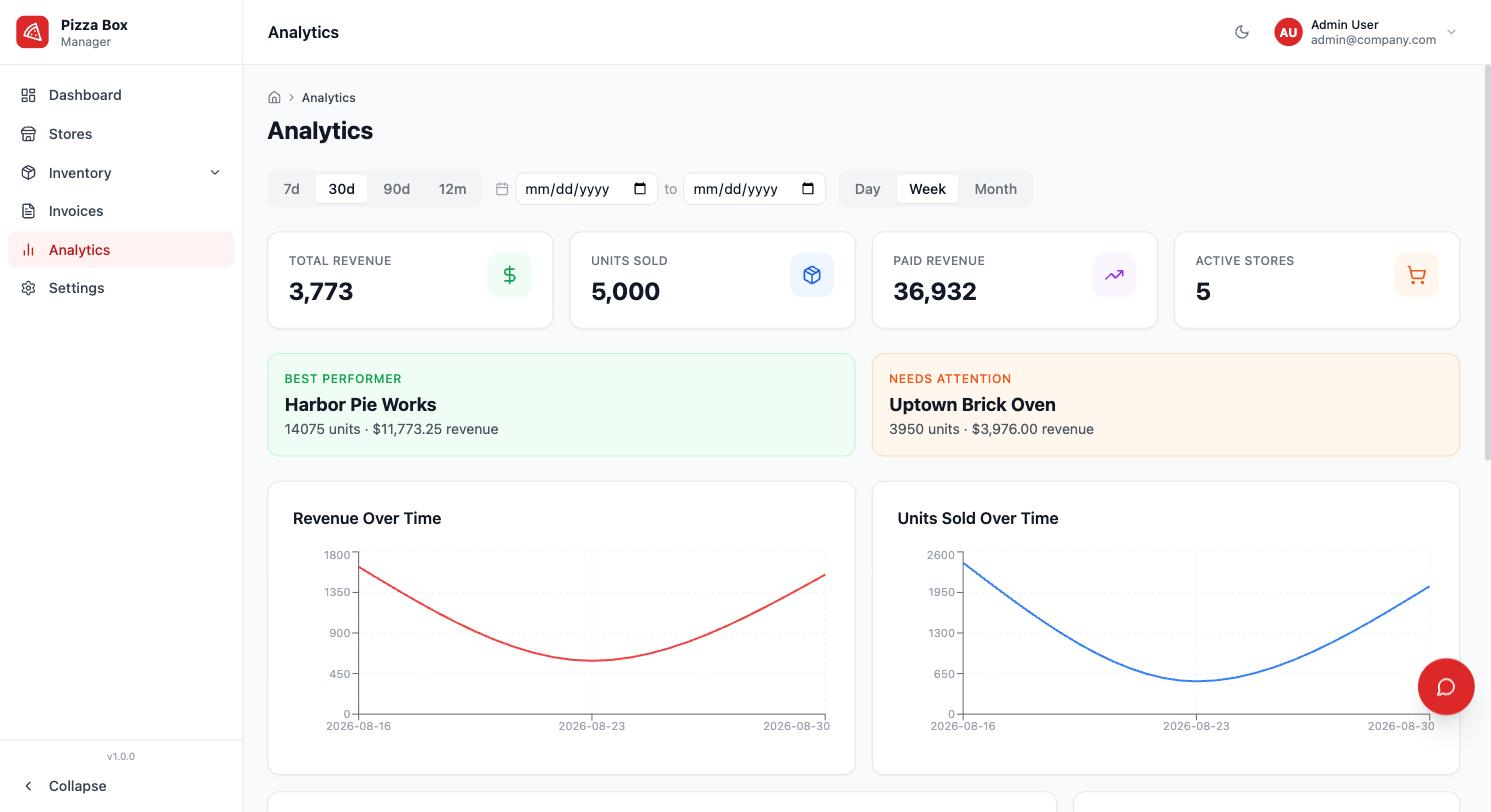
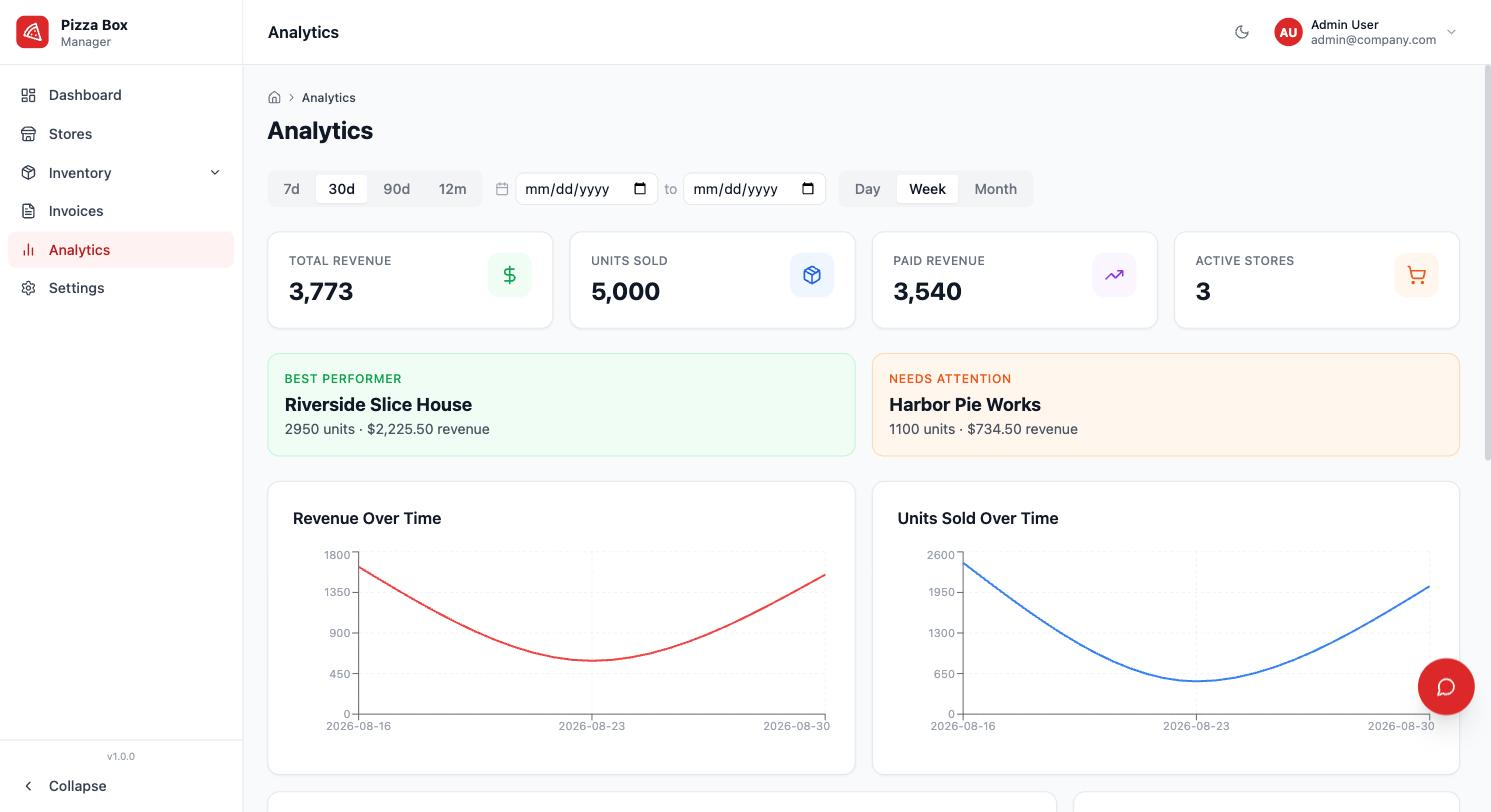
fix(analytics): apply the selected date range to every card, not most of them
The Analytics header mixed windowed and all-time figures, so with the 30d
preset selected it read "Total Revenue 3,773" beside "Paid Revenue 36,932" —
two numbers a reader cannot reconcile, because they were measuring different
spans of time.

Two separate causes, same symptom:

- getInvoiceSummary took `_req` and ignored the query string, so the date
  range the client already sent was discarded and the answer was always
  all-time. It now honours startDate/endDate/currency like every other
  handler in the file.

- getTopStores does filter by date, but only when given a range, and the
  client never passed one. The Best Performer / Needs Attention cards were
  therefore all-time and did not react to the range selector at all.
  Passing `params` also required adding dateKey to the queryKey, or the
  first window's result would be cached and served for every other window.

Verified against the seeded database: /analytics/invoice-summary returns
26 invoices / $36,932.47 unfiltered and 3 / $3,540.04 for the last 30 days.
Previously both returned $36,932.47.

Retook 04-analytics.jpg, which now shows a coherent row: paid revenue below
total revenue, active stores counting only stores active in the window, and
a best performer that belongs to the selected range.

Changed region(s): [[0.5862, 0.4926, 0.7404, 0.5542], [0.1851, 0.4926, 0.3394, 0.5542], [0.5862, 0.3387, 0.6787, 0.3695]]

diff --git a/server/src/controllers/analytics.ts b/server/src/controllers/analytics.ts
@@ -291,14 +291,29 @@ export async function getInventorySnapshot(_req: Request, res: Response, next: N
   } catch (err) { next(err); }
 }
 
-export async function getInvoiceSummary(_req: Request, res: Response, next: NextFunction): Promise<void> {
+/*
+ * Honours the same startDate/endDate/currency filters as every other handler here.
+ *
+ * It previously took `_req` and ignored the query string entirely, so the client sent
+ * a date range and got an all-time answer back. On the Analytics page that put an
+ * unfiltered "Paid Revenue" directly beside a filtered "Total Revenue" — with the 30d
+ * preset selected the two cards read $3,773 and $36,932, which is not a comparison a
+ * reader can make sense of.
+ */
+export async function getInvoiceSummary(req: Request, res: Response, next: NextFunction): Promise<void> {
   try {
+    const dateRange = getDateRange(req);
+    const currency = getCurrency(req);
     const statuses = ['DRAFT', 'SENT', 'PAID', 'CANCELLED', 'OVERDUE'] as const;
     const summary: Record<string, { count: number; value: number }> = {};
 
     for (const status of statuses) {
       const invoices = await prisma.invoice.findMany({
-        where: { status },
+        where: {
+          status,
+          ...(currency ? { currency } : {}),
+          ...(Object.keys(dateRange).length ? { issueDate: dateRange } : {}),
+        },
         select: { total: true },
       });
       summary[status] = {

diff --git a/client/src/pages/Analytics/SalesAnalytics.tsx b/client/src/pages/Analytics/SalesAnalytics.tsx
@@ -45,7 +45,11 @@ export default function SalesAnalytics() {
   const byStoreQuery = useQuery({ queryKey: ['analytics', 'by-store', dateKey], queryFn: () => getSalesByStore(params) });
   const byTypeQuery = useQuery({ queryKey: ['analytics', 'by-type', dateKey], queryFn: () => getSalesByBoxType(params) });
   const bySizeQuery = useQuery({ queryKey: ['analytics', 'by-size', dateKey], queryFn: () => getSalesByBoxSize(params) });
-  const topStoresQuery = useQuery({ queryKey: ['analytics', 'top-stores'], queryFn: () => getTopStores({ limit: 10 }) });
+  // getTopStores filters by date server-side, but only if it is given a range. Without
+  // `params` the Best Performer / Needs Attention cards reported all-time winners next
+  // to windowed charts, and did not change when the range selector did. `dateKey` has
+  // to be in the queryKey too, or the first window's answer is cached for every other.
+  const topStoresQuery = useQuery({ queryKey: ['analytics', 'top-stores', dateKey], queryFn: () => getTopStores({ limit: 10, ...params }) });
   const summaryQuery = useQuery({ queryKey: ['analytics', 'summary', dateKey], queryFn: () => getInvoiceSummary(params) });
 
   const revenue = revenueQuery.data || [];
